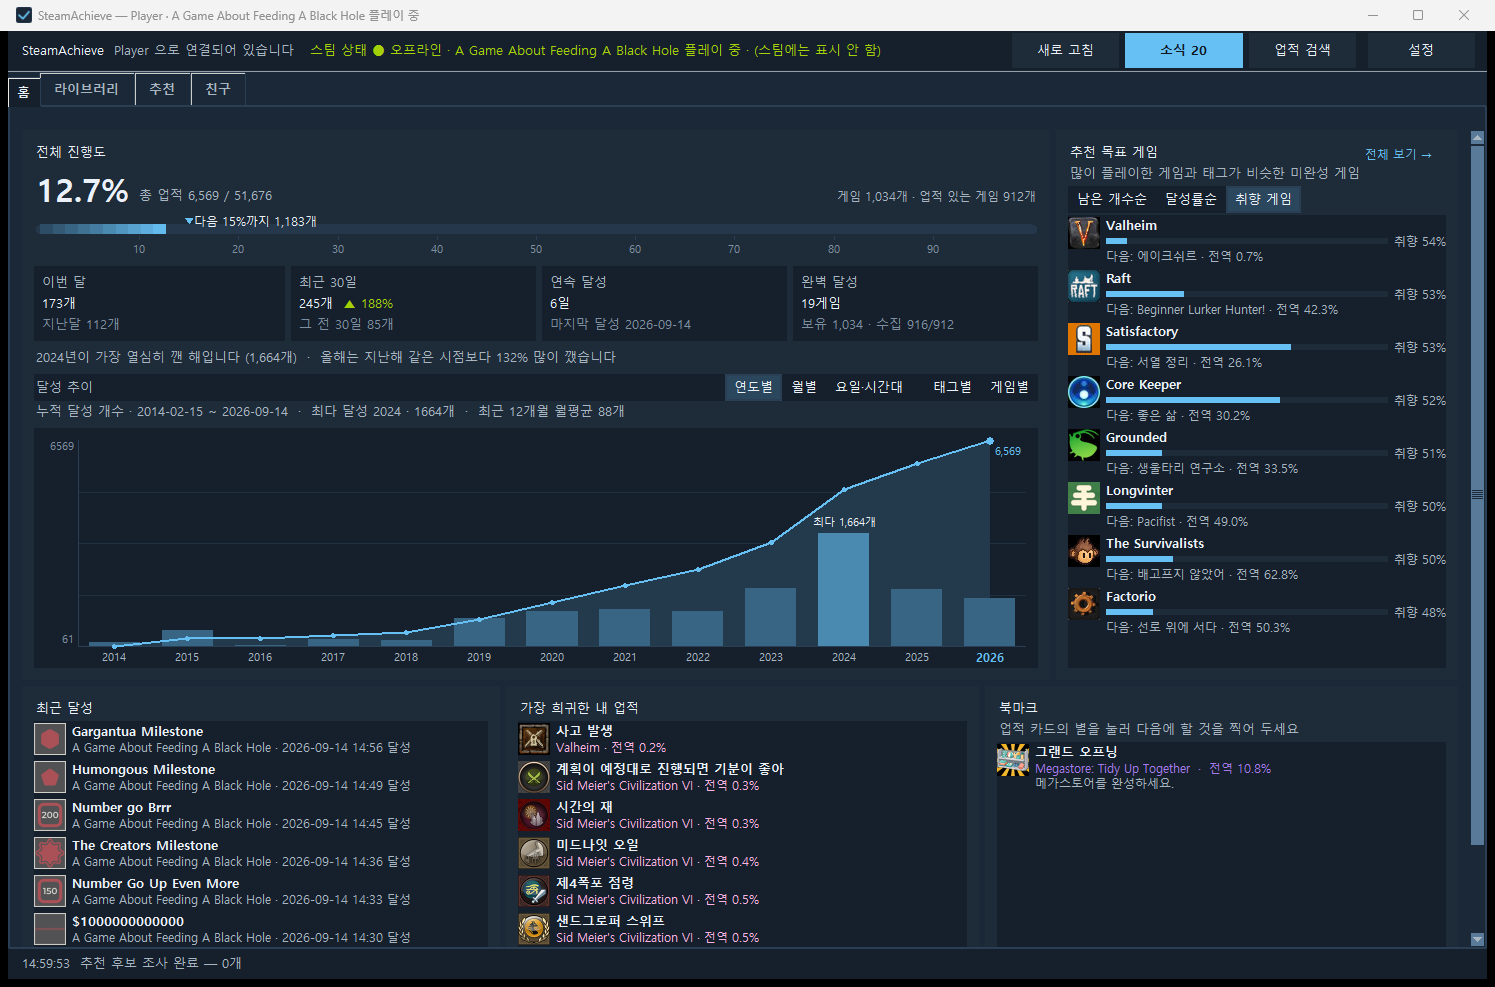
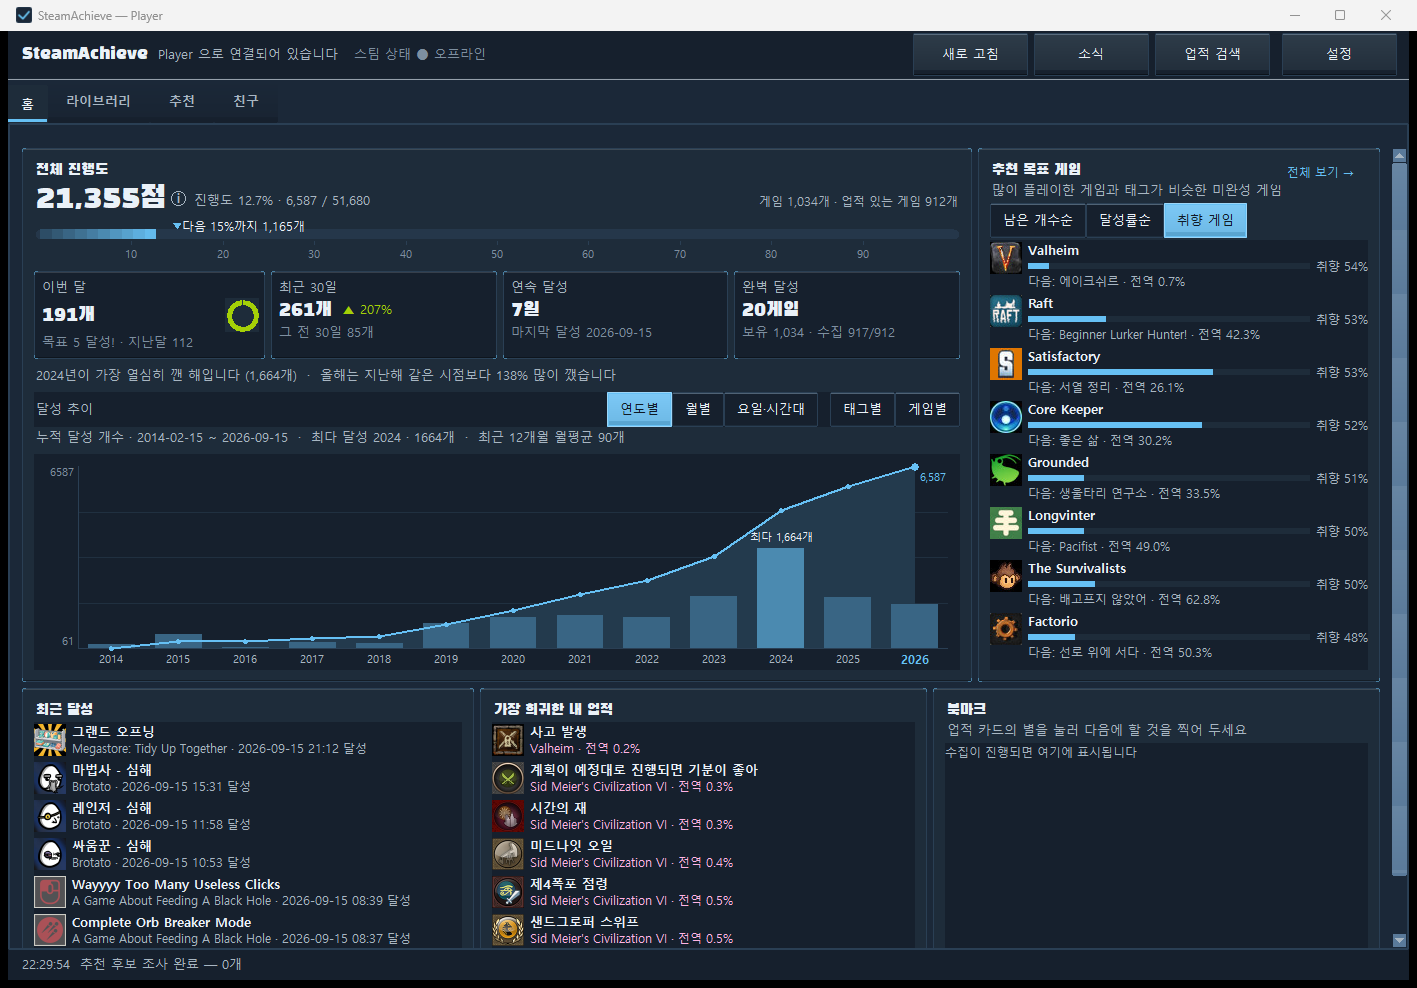
docs: v0.5.15 배포 문서

diff --git a/CHANGELOG.md b/CHANGELOG.md
@@ -2,6 +2,31 @@
 
 형식은 [Keep a Changelog](https://keepachangelog.com/ko/1.1.0/) 를 따르고, 버전은 [SemVer](https://semver.org/lang/ko/) 입니다.
 
+## [0.5.15] - 2026-09-15 — 업적 점수 · 게임 메뉴 같은 화면 · 앱 안 업데이트
+
+### 추가
+- **스크롤바 손잡이가 트랙 전체를 채우던 문제를 고쳤습니다(사용자 신고).** 새 스킨이 입힌 손잡이 이미지의 이름 탓에 Tk 가 손잡이 위치를 찾지 못해, 목록·표·홈 어디서나 스크롤바가 꽉 찬 막대로만 보여 지금 어디쯤인지·얼마나 남았는지 알 수 없었습니다. 같은 이유로 진행 막대도 늘 가득 찬 채였습니다.
+- **친구 비교에 "확인 못 한 게임"이 남지 않습니다(사용자 지적).** 원인은 넷이었습니다. 업적이 없는 게임(스키마가 빈 게임)이 공통 게임에 섞여 영원히 결론이 안 났고, 내 계정에서 막힌 게임(Mirror 등)은 세션마다 다시 두드려 403 만 쌓였습니다. 이제 업적 없는 게임은 비교에서 빼고, 내 쪽 403 은 7일 동안 다시 묻지 않으며, 친구가 그 게임만 숨긴 경우와 내 쪽이 막힌 경우는 "친구 업적 비공개"·"내 업적 비공개"라는 **결론**으로 표에 둡니다. 점수 근거 줄도 "숨김 N개 제외"와 "미확인 N개 제외"를 나눠 적습니다. 그래서 표 아래의 "확인 못 한 게임 N개 + 펼치기/접기" 줄은 없앴습니다 — 표에는 스크롤바가 있습니다.
+- **비교 탭의 "최근 30일 업적 N개 · 주로 …" 한 줄을 없앴습니다(사용자 지적).** 누적 비교와 무관한 정보였습니다 — 요즘 활동은 [비교 | 활동] 전환의 활동 보기가 보여 줍니다.
+- **점수판 숫자 옆 작은 원형 아이콘에 마우스를 올리면 점수 구성이 보입니다(사용자 요청).** "8점 × N개 … · 미확인(1점) × N개 · 완벽 달성 × N게임 · 합계" — 합계는 점수판 숫자와 같습니다.
+- **업적 점수를 도입했습니다.** 친구 비교에서는 판정 바로 아래에 나와 친구의 점수를 큰 숫자로 나란히 두고 그 사이에 판세 막대를 그립니다 — 합계가 공통 게임·받은 수 같은 세부 개수와 한 줄에 섞여 바로 읽히지 않았습니다(사용자 지적). 홈 헤드라인이 퍼센트 대신 "12,345점"이 되고, 진행도(%)는 부제로 내려갑니다. 점수는 깬 업적마다 전역 달성률로 매깁니다 — 1% 이하 8점 · 5% 이하 6점 · 10% 이하 5점 · 30% 이하 4점 · 50% 이하 3점 · 70% 이하 2점 · 80% 미만 1점 · **80% 이상 0점**(누구나 깨는 튜토리얼성 업적으로 점수가 부풀지 않게 — 사용자와 실측 분포로 정했습니다). 게임을 완벽 달성하면 1개당 100점을 더합니다(게임 하나를 끝까지 깬 것 자체가 큰 업적이라 업적 수와 무관한 고정값). 전역 달성률을 아직 모르는 업적은 1점으로 세고 "미확인 N개"를 함께 보여 줍니다. 친구 탭 비교의 지표 콤보에도 "점수"가 기본값으로 맨 앞에 추가되고, "함께 보유한 게임만" 체크를 끄면 친구만 가진 업적 게임의 진행도 받아와 승패 판정에 넣습니다.
+- **앱 안에서 버튼 한 번으로 업데이트합니다(사용자 요청).** 새 버전을 받아 exe 를 손으로 덮어써야 해 번거로웠습니다. 이제 상단바의 새 버전 알림을 누르면 변경 내용과 크기를 보여 주는 창이 뜨고, **[업데이트]** 를 누르면 앱이 새 exe 를 받아(진행 막대 · 취소 가능) 릴리스의 해시(`SHA256SUMS.txt`)와 맞는지 확인한 뒤 바꿔 끼우고 다시 시작합니다. 해시가 다르거나 받다가 끊기면 받은 파일을 지우고 기존 exe 는 그대로 둡니다. exe 를 쓰기 권한이 없는 곳(예: Program Files)에 두었다면 자동으로 바꿀 수 없어 전처럼 릴리스 페이지를 엽니다. 받기에만 GitHub 파일 저장소 주소가 새로 쓰이며, 개인정보 안내(PRIVACY.md)의 접속처 목록에 추가했습니다.
+
+### 수정
+- **친구 활동에 친구의 지난 업적이 빠지던 것을 고쳤습니다(사용자 신고).** 기록이 친구 52명 중 몇 명, 게임 몇 개에만 쌓여 있었습니다. 원인은 셋이었습니다.
+  - **업적이 없는 게임이 수집 몫을 차지했습니다.** 친구가 최근에 오래 한 게임이 업적이 없는 게임이면(GrandChase·RimWorld 등) 스팀이 오류를 돌려주는데, 이 결과를 기억하지 않아 모을 때마다 다시 물었습니다 — 한 번에 받는 40개 중 9개가 매번 그렇게 버려졌습니다. 이제 업적이 없는 게임은 묻지 않고 다음 게임으로 넘어갑니다.
+  - **뒤에서 미리 받은 친구 업적이 활동 기록에 들어가지 않았습니다.** 친구 비교를 위해 뒤에서 미리 받거나 업적 공개 여부를 확인하며 받은 자료는 활동 기록에 남지 않았습니다. 이제 그 경로로 받은 업적도 활동 기록에 남기고, [새로 고침] 때 이미 받아 둔 자료에서도 거둬들입니다(추가 호출 0).
+  - **최근 2주에 하지 않은 게임은 들여다보지 않았습니다.** 스팀은 친구가 게임을 마지막으로 언제 했는지 알려 주지 않아, 90일 안에 딴 업적이라도 요즘 안 하는 게임이면 빠졌습니다. 이제 [새로 고침] 때마다 업적 있는 보유 게임을 플레이타임이 긴 순서로 친구마다 번갈아 조금씩 훑어 90일 이내 달성을 채웁니다. 한 번 훑은 게임은 플레이타임이 늘었을 때만 다시 봅니다.
+- **친구 탭 › 활동의 "지금 하는 중" 표가 비어도 자리를 지킵니다(사용자 지적).** 게임 중인 친구가 없으면 표가 사라지고 안내 한 줄만 남아 오른쪽 칸 구성이 들쭉날쭉했습니다. 이제 빈 표 가운데에 "지금 게임 중인 친구가 없습니다"가 뜹니다.
+
+### 바뀜
+- **화면이 게임 메뉴처럼 바뀌었습니다(사용자 요청).** 스팀 색은 따라갔지만 모든 것이 같은 무게의 평평한 사각형이라 "단순 프로그램"처럼 보였습니다. 색과 배치·기능은 그대로 두고 **모양**만 바꿨습니다.
+  - **버튼 · 탭 · 표 머리글 · 패널**에 깊이가 생겼습니다 — 위는 밝고 아래는 어두운 그라데이션과 베벨, 누르면 눌린 모양, 주요 버튼과 켜진 칩은 강조색으로 빛납니다. 선택한 탭 아래에는 강조색 막대가 붙습니다.
+  - **업적 카드의 틀이 희귀도를 말합니다.** 희귀할수록 등급색 틀이 짙어지고 오른쪽 위에 보석 표시가 붙습니다(매우 희귀는 두꺼운 틀). 달성한 업적은 초록 틀, 확인하지 못한 업적은 호박색 틀이라 "못 깬 것"과 헷갈리지 않습니다. 흔한 업적은 틀을 칠하지 않아 특별한 카드가 묻히지 않습니다.
+  - **달성 알림과 업적 툴팁**이 등급색으로 빛나는 틀을 씁니다.
+  - **제목 글꼴**을 굵은 디스플레이 글꼴(Black Han Sans, SIL 오픈 폰트 라이선스 — 라이선스 파일을 함께 넣었습니다)로 바꿨습니다. 본문 글꼴은 그대로입니다. 글꼴을 불러오지 못하는 PC 에서는 전처럼 맑은 고딕으로 보입니다.
+- **홈 화면이 전체 화면(1920×1080)에서 스크롤 없이 한 화면에 들어옵니다(사용자 요청).** 최근 달성 · 가장 희귀한 내 업적 · 북마크를 8줄 → 7줄로, 달성 추이 그래프를 240 → 216px 로 줄였습니다(줄만 줄여서는 16px 가 넘쳤습니다). 창이 더 크면 남는 높이만큼 줄이 더 보입니다.
+
 ## [0.5.14] - 2026-09-14 — 새로 고침 버튼 · 보는 동안 빠른 갱신
 
 ### 추가
